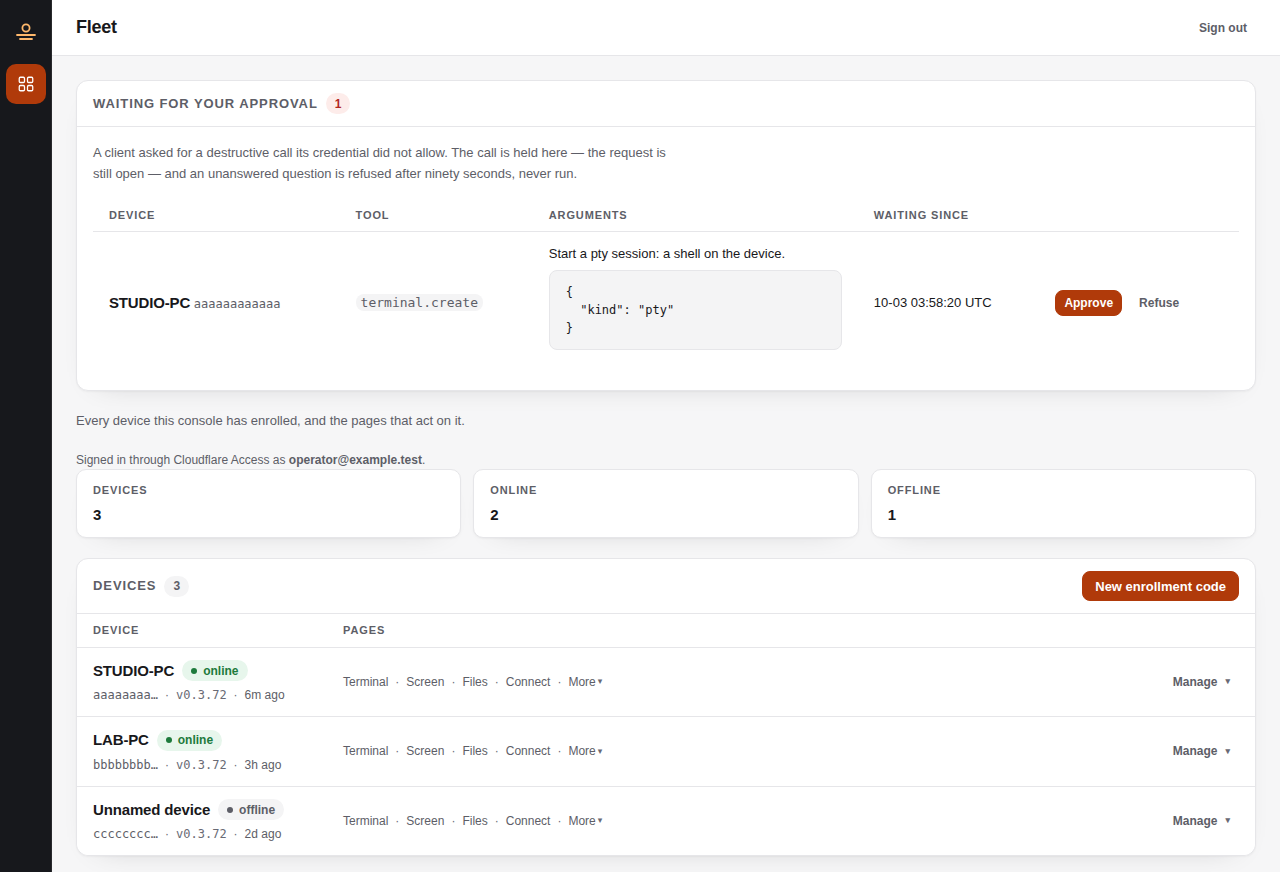
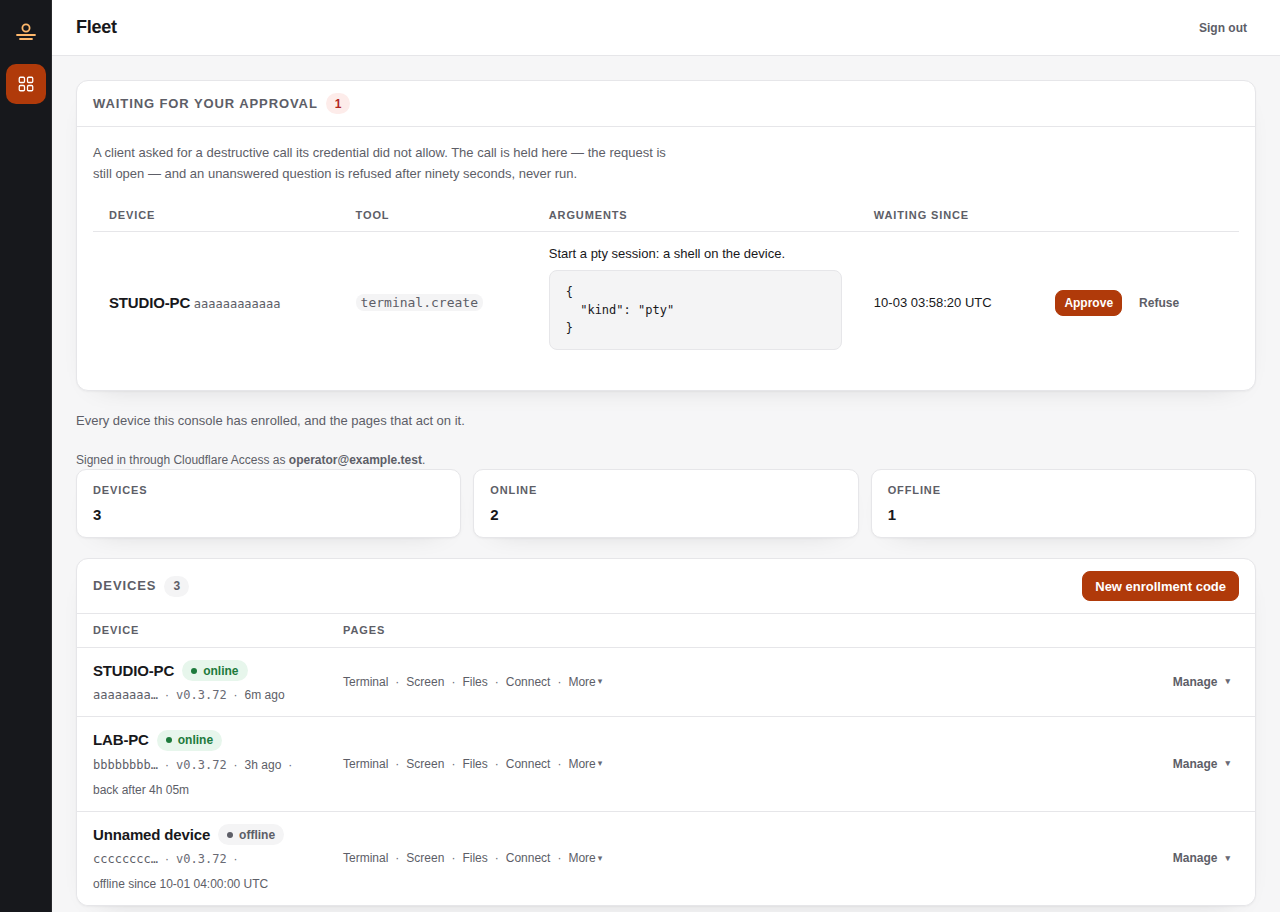
landing: the picture of the console was a day behind it
The shot under the hero is cut from the console's own review renderer, and the
console has grown a line under each device since it was taken: an offline row says
since when, and a machine that came back says how long it was away. The old picture
showed neither — and the row it did show (`2d ago`) is copy the product no longer
prints.

Regenerated from the current renderer. The extra line pushed the third device out of
the 900 px viewport the shot used to be cut from, so the gate takes
LAYOUT_VIEWPORT_HEIGHT=940, the shot is cut at height - 28 (the status strip), and
`index.html` carries the new 1280x912 so the page does not jump before the image
loads. The alt text now mentions the outage line, because that line is the reason
the picture was worth taking again.

VERIFIED live: `https://summrise.saisi.online/assets/console-fleet.png` answers 200
with a 1280x912 PNG, and the page carries `height="912"`. `node landing/check.mjs` ->
78 strings in two languages, 14 contrast pairs >= 4.5:1; the landing layout gate -> 1
page x 360/390/800/1280, 0 failures.

diff --git a/landing/public/index.html b/landing/public/index.html
@@ -92,8 +92,8 @@
   <main id="main">
     <section class="shot" aria-labelledby="shot-caption">
       <div class="shot-frame">
-        <img src="assets/console-fleet.png" width="1280" height="872" loading="lazy"
-             alt="The Summrise console's Fleet page: a destructive call waiting for approval, two devices online and one offline, each with its pages one click away.">
+        <img src="assets/console-fleet.png" width="1280" height="912" loading="lazy"
+             alt="The Summrise console's Fleet page: a destructive call waiting for approval, two devices online and one offline, each with its pages one click away. One of the online machines says it was away for four hours and has come back.">
       </div>
       <p class="shot-caption" id="shot-caption" data-i18n="shot.caption">The console at a glance: who is online, what each machine runs, and the one call <em>waiting for you</em>.</p>
     </section>

diff --git a/docs/design/landing/README.md b/docs/design/landing/README.md
@@ -77,6 +77,12 @@ own review renderer (the sanitized fixture, so the devices are STUDIO-PC / LAB-P
 ids are fabricated), and cut above the status strip so no build number is baked into a marketing
 asset. One picture, no carousel, no device mockup around it — the same rule as the terminal.
 
+It is regenerated, not redrawn. 2026-10-29: the console grew a line under each device (an outage that
+ended, a machine that has been gone since a time), which pushed the third device out of the 900 px
+viewport the shot used to be cut from. The gate takes `LAYOUT_VIEWPORT_HEIGHT=940`, the shot is cut at
+`height - 28` (the status strip), and `index.html` carries the new `height` so the page does not jump
+before the image loads.
+
 ## What would make this page wrong
 
 If the download has to be hosted by the product instead of a releases page, or if a second audience
